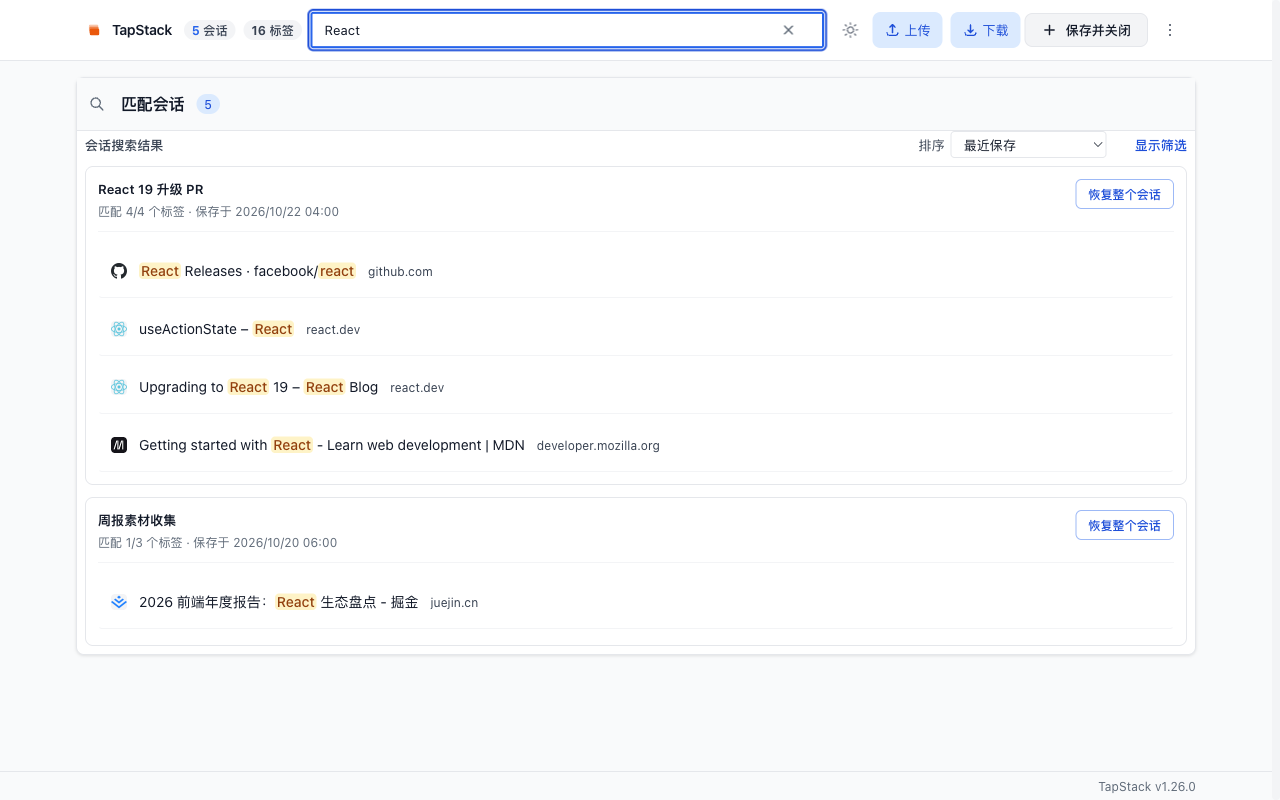
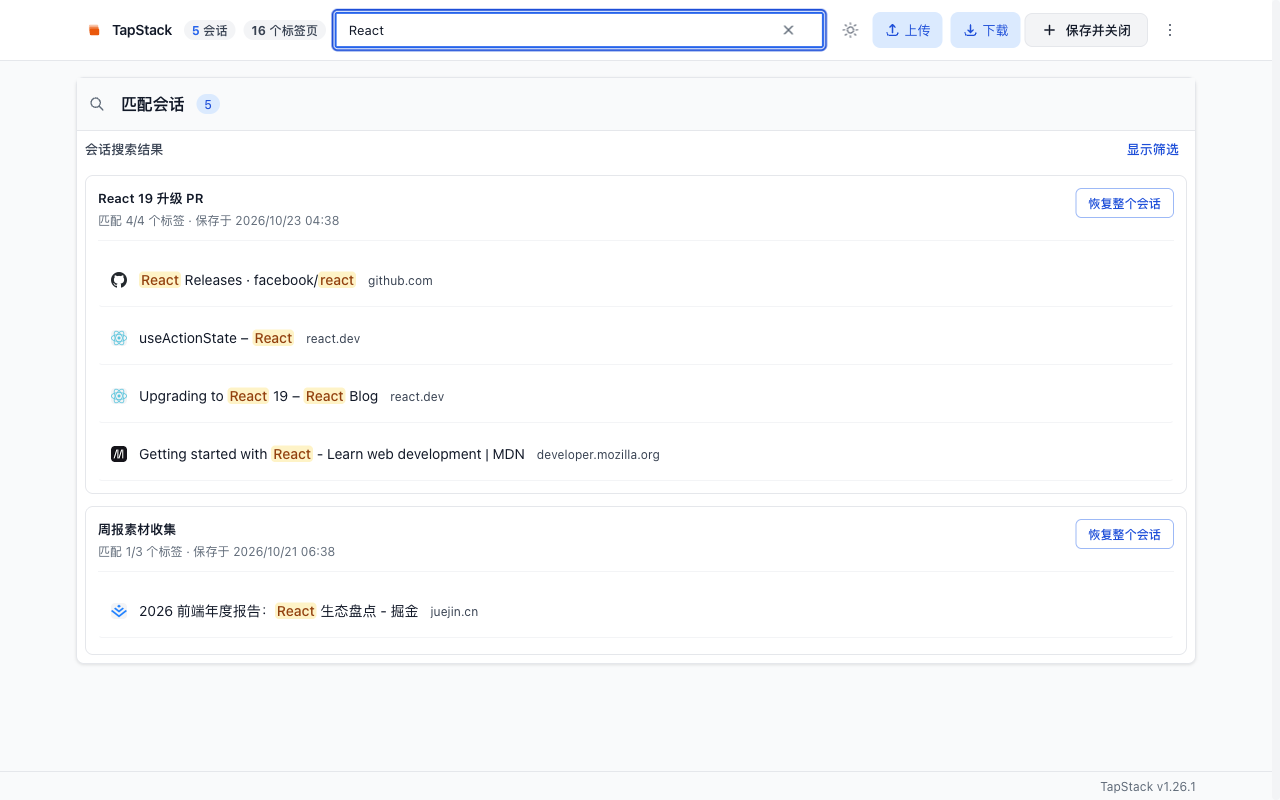
chore(release): 升 1.26.1 —— 第 49～52 轮的修复合版待提审
**版本号动了五处**，其中一处是残留：package.json / manifest.json /
README / .env.example 都是 1.26.0 → 1.26.1；而 .env 里的
VITE_APP_VERSION 停在 **1.24.1**（落后两个版本）—— 一直没人碰，
因为它只在 src/env.d.ts 里声明了类型、**代码里没有任何地方读它**
⇒ 构建产物里不含版本号 ⇒ 它错了也不会被发现。这次顺手对齐。

**商店文案**：线上那份是**手写进后台、描述另一个产品的文案**
（它从未在本仓存在过）—— 实测 20 处问题：宣传了不存在的
「分组管理 / 自动折叠空分组」（空会话是物理删除，不是折叠）、
「数据仅在 Supabase」（自带存储从 1.24.0 起就是第二条通路）、
「本地与云端双重保障」（云端不是备份，是同一份数据的镜像）；
漏说了「保存即关闭 / 自带存储 / 恢复即消费 / 没有数量上限 /
file:// 的真相」。**仓库这份是对的** —— 但商店文案没有 API 通道，
只能人工在后台粘贴 `store-listing-audit.mjs --print-text` 的输出。
本次把待粘文案与台账对齐，并重拍两张商店截图（页脚 v1.26.0 → v1.26.1）。

**台账**：新增 v1.26.1 一节 —— 记下三件「提审前仍然要人做」的事
（解封 Supabase 的 402 配额封禁 / 粘商店文案 / WebDAV 列目录实测），
以及**产物脱节**这件事本身：接手时 dist 是 05:09 构建的、
chrome-extension.zip 是 00:38 打的，而最后一次提交在 16:16 ⇒
两者都落后于当前源码，而且**manifest 版本号完全对得上** ⇒
最省事的检查查不出来。⇒ 发版第一步改成：记 sha256 → 重建 → 逐字对比。
未完成的 WebDAV 待办从 v1.26.0 搬进本节（未完成的事不许躺在
历史版本里装成已完成）。

**门禁**：4515 单测全绿（0 fail）、type-check（src + tests）、
lint（src + tests，--max-warnings 0）、validate-extension、
首屏体积门（182.6KB ≤ 185KB）全绿；产物已重建，
zip 内 manifest 与仓库逐字一致（唯一差异是构建脚本**有意**加的
"type": "module"）。

diff --git a/docs/RELEASE-NOTES.md b/docs/RELEASE-NOTES.md
@@ -8,6 +8,163 @@
 > 长期台账**（含根因、踩坑、修复顺序），不必翻译成英文、不必对齐商店审核口径。
 > 两边都会写「本版改了什么」，但只有本文件会记住「为什么」和「后来怎么验证的」。
 
+## v1.26.1（2026-10-23，**待提审**）
+
+**这版的由来**：第 49～52 轮的四批修复合版提审。这四轮都发生在 **1.26.0 过审上架之后** ⇒
+**线上跑的还是 10-22 那版**，这些修复一个都还没到用户手里。
+
+| 轮次 | 一句话 |
+|---|---|
+| 第 49 轮 | 第一屏那圈画在 Tab 不到的标题上的 2px 蓝框；真机判据自己也会假红 |
+| 第 50 轮 | 「核不到」不再被读成「未登录」；判据层解耦 IO 层；首屏准入闸门进到构建里；对外文案对齐 |
+| 第 51 轮 | 一次云端故障不再等于一次全员登出；覆盖下载的预览与实际落点逐个 id 对账 |
+| 第 52 轮 | 下载路径的核账号也必须有上限 —— 45 秒 ⇒ 5 秒，不打爆 30 秒协议上界 |
+
+### 一、提审前**必须**先解封云端（这条比什么都急）
+
+生产 Supabase 项目（`reccclnaxadbuccsrwmg`）**至今仍被 egress 配额封禁**，
+所有端点（`/rest/v1/*`、`/auth/v1/*`）一律 **HTTP 402**：
+
+```
+{"message":"Service for this project is restricted due to the following violations:
+ exceed_egress_quota. The project owner must upgrade their plan or remove spend
+ caps to restore service."}
+```
+
+**2026-10-22 撞到，2026-10-23 仍未解除** —— 已经跨过一整天的上架窗口
+（1.26.0 就是在这段时间里过审上架的）⇒ **封禁不会自己恢复**。
+
+**为什么它比版本号急**：新用户装上扩展后的第一件事就是注册/登录 ⇒
+登录直接失败 ⇒ 首屏体验是「我注册不了」。审核员不查你的库，所以
+**提审时不会有任何提示**，问题只在用户手里炸。
+
+**探测命令**（一条就够，401 + 空数组 = 正常；402 = 还封着）：
+
+```bash
+set -a; source .env; set +a
+curl -sS --max-time 20 \
+  "https://reccclnaxadbuccsrwmg.supabase.co/rest/v1/tab_groups?select=id&limit=1" \
+  -H "apikey: $VITE_SUPABASE_ANON_KEY"
+```
+
+**解封只能由人做**：仓库里**没有**管理端凭据（`.env` 只有 anon key、
+无 `SUPABASE_DB_URL`），`supabase` CLI 未登录，Supabase MCP 未授权
+⇒ 需要项目所有者到 dashboard 升配或移除 spend cap。
+**在解封之前提审 1.26.1，等于发一个「云端全挂」的版本出去。**
+
+### 二、商店文案**仍然**要人工粘贴（且线上那份有 20 处问题）
+
+`node scripts/store-listing-audit.mjs` 实测线上公开页：**20 处问题**
+—— 3 处「说了假话」（宣传了不存在的「分组管理 / 自动折叠空分组」
+「数据仅在 Supabase」「本地与云端双重保障」）+ 若干处「漏说了」
+（保存即关闭 / 自带存储 / 恢复即消费 / 没有数量上限 / `file://` 的真相）。
+
+⚠ **商店文案没有 API 通道**（CWS v1.1 的 `Item` 只暴露 5 个字段、不含文案；
+v2 只有 `media.upload`）⇒ **只能人工在后台粘贴**
+`node scripts/store-listing-audit.mjs --print-text` 的输出。
+这次改**版本号**不会自动改到线上描述 —— 那是另一条通道，得人走。
+
+### 三、版本号动了五处，其中一处是**残留**
+
+| 文件 | 改前 | 改后 |
+|---|---|---|
+| `package.json` | 1.26.0 | 1.26.1 |
+| `manifest.json` | 1.26.0 | 1.26.1 |
+| `README.md`（当前版本） | 1.26.0 | 1.26.1 |
+| `.env.example`（`VITE_APP_VERSION`） | 1.26.0 | 1.26.1 |
+| `.env`（`VITE_APP_VERSION`，**不入库**） | **1.24.1** | 1.26.1 |
+
+`.env` 那处是**残留**：它比 `package.json` 落后了**两个**版本（1.24.1），
+一直没人碰 —— 因为 `VITE_APP_VERSION` 只在 `src/env.d.ts` 里声明了类型，
+**代码里没有任何地方读它** ⇒ 构建产物里不含版本号 ⇒ 它错了也不会被发现。
+这次顺手对齐，是因为「事实源之间不许漂」比「顺手多改一个文件」重要。
+
+### 四、本轮撞到的一件事：**产物与源码脱节**（旧 dist 与旧 zip 都是过期的）
+
+准备提审时对了一下产物：
+
+- `dist/` 的 mtime 是 **05:09**，而最后一次提交在 **16:16** ⇒ **旧的 dist 不是当前源码的产物**；
+- `chrome-extension.zip` 是 **00:38** 打的 ⇒ **它连 round-50 都还没有**。
+
+⚠ 这正是 `.github/workflows/verify.yml` 那段注释里记过的历史事故
+（「磁盘上的 zip 其实是另一个分支的构建产物」）。本轮它又发生了一次 ——
+**只不过这次是同一个分支，只是落后了几轮**。
+
+**这次为什么能当场发现**：先记下旧 `dist` 的逐文件 sha256，再重建，再逐字对比 ⇒
+`service-worker.js` / `popup/index.html` / `options/index.html` 的哈希都变了
+⇒ 旧产物确认过期。**这个动作本身就该是发版流程的第一步**，
+而不是「记着要 rebuild」。
+
+**重建后确认**：产物 33 个文件，`chrome-extension.zip` 37 个文件 / 0.32MB，
+zip 内 `manifest.json` 与仓库逐字一致（唯一差异是构建脚本**有意**加的
+`"type": "module"` —— 模块化 service worker 需要它，见 `vite.config.ts` 的
+`restore-manifest` 插件）。
+
+### 五、本版的门禁状态
+
+- 本地全量测试：**4515 pass / 1091 suites / 0 fail**（300.8 秒）
+- `type-check`（src + tests）、`lint`（src + tests，`--max-warnings 0`）：✅
+- `validate-extension.mjs`：✅（版本四处一致）
+- 首屏体积：**182.6KB ≤ 185KB** 预算 ✅
+- `pnpm package`：✅
+
+### 六、这一版**没做**的（推迟，不是忘了）
+
+- **同步那一路仍会挨 8 次刷新**（第 51 轮 §八之二已如实记，第 52 轮 §六 再记一次）：
+  要改 `sync-backend/supabaseAdapter.ts` 的同步入口（把探活挪到它之前），
+  而探活住在 `src/utils/supabase/`（popup 首屏禁入组）⇒ 代价是把它挪出首屏 ⇒ **下一轮**的事。
+- **商店文案仍然要人粘**（没有 API 通道，见 §二）。
+- **云端封禁仍然要人解**（见 §一）。
+
+### 六之二、继承下来的未完成项（不许被静默丢掉）
+
+> 这两条待办**从 v1.25.1 一路延续到 v1.26.1**，本轮同样没动它们。
+> 它们住在**本节**（最新一节）而不是历史版本里 —— 未完成的事不许躺在
+> 旧版本里装成已完成。
+
+**待办（提审前逐条勾掉）**
+
+- [ ] **三家 WebDAV 各跑一次列目录实测**（坚果云 / dufs / 第三个服务商）。
+      每家都要记录：Depth:1 PROPFIND 的**状态码**、正文里**有没有
+      `<multistatus>`**、**有没有 `<response>` 块**、**每个块有没有
+      `<href>`**、`<href>` 是**绝对 URL / 绝对路径 / 相对路径**哪一种、
+      目录**真的有分片时**列出来的条目数是否与磁盘上的文件数一致。
+      —— 这一条是**真机**的，脚本与单测都替不了（`scripts/webdav-capability-matrix.mjs`
+      与 `scripts/e2e-webdav-local.mjs` 目前**只**测 Depth:0，不覆盖 Depth:1）。
+      —— **2026-10-20 已跑通 2 家**（rclone serve webdav / dufs 0.47.0，各 19/19），
+      两家给出的 `<href>` 形状不同（绝对 URL vs 绝对路径）而 `hrefToRelPath`
+      对两种都归一正确 —— 这正是「每家都要真机跑」的理由。
+      **坚果云仍未跑**（需要真实账号）。
+        **待办保持未勾选**是刻意的：三家没跑齐就不算完 —— 勾掉等于骗自己。
+      —— **2026-10-23 状态：本轮（v1.26.1）同样没有动这条链路**，待办原样延续。
+- [ ] 上面每家都要再验一次**「目录读不出来」**的形态（临时把目录改名 /
+      断网 / 换成 405），确认界面报的是**可操作的错误**而不是「云端为空」。
+      —— **2026-10-20 已跑通 2 家**（404 与 405 两种形态都判 `listed:false`
+      且**不返回任何条目**）。—— **坚果云这条形态仍未验**。
+
+**已知的、本轮没做但不许被忘记的边界**
+
+- `listDir` 的三条闸（正文里数不出 `<response>` ⇒ 列不出来；根元素没闭合
+  ⇒ 列不出来；`<response>` 缺 `<href>` ⇒ 列不出来）是在**假服务器**上验的。
+  真机上会不会有某家返回「207 但正文形态 unusual」，**目前不知道** ——
+  这就是上面那条实测待办存在的理由。
+  —— 2026-10-20 在 rclone 上验过，且真机**抓出了一个假服务器验不出来的 P0**
+    （见 v1.25.1 台账「四、真机实测抓到的 P0」）。假服务器全绿**根本不能**
+    代表真机可用 —— 假服务器只吐我们自己解析器认得的形状。
+- 把「207 但正文读不懂」从「列出来是空的」改成「列不出来」，
+  **代价**是：若某家服务端的 207 正文形态确实特殊（且我们读不懂），
+  用户的同步会**中止并报错**，而不是像以前那样「静默当空库」。
+  这是**故意的**（fail-closed 优于静默覆盖），但需要真机确认三家都不踩到。
+- **跨账号隔离（见 v1.26.0 §三）有一个窄窗口**：本机的「会话归属记录」存在
+  `chrome.storage.local`，而**会话本体在 IndexedDB**。若 `chrome.storage.local`
+  被单独清掉（会话还在、归属记录没了），且这台机器**从没有过**登录缓存
+  （= 从没登录过），本机会话会被归到当前账号。正常路径下登录/退出都会写
+  归属记录，所以这个窗口极窄 —— 但它**不是零**，写在这儿免得下一轮重新发现。
+  换句话说：**这版把「换账号泄露」的概率从「必然」降到了「极窄」，
+  不是降到了零**。
+
+---
+
 ## v1.26.0（2026-10-22 完稿，**2026-10-23 已过审上架**）
 
 **提审与上架状态（2026-10-23）**：`1.26.0` 提交审核回包 `status: ["OK"]`
@@ -265,48 +422,11 @@ egress 配额**（配额超限正是封禁的原因）⇒ 不推进 1/2/5 分钟
    另有一个探针从 2026-10-18 起就一直在报假警。现在都改成
    **先断言目标状态存在再拍/再判**；闸门改了必须回来改断言。
 
-### 八、待办（从 v1.25.1 延续，本轮没动，但不许被忘记）
+### 八、待办（已并入 v1.26.1 一节）
 
-**待办（合版前必须逐条勾掉）**
-
-- [ ] **三家 WebDAV 各跑一次列目录实测**（坚果云 / dufs / 第三个服务商）。
-      每家都要记录：Depth:1 PROPFIND 的**状态码**、正文里**有没有
-      `<multistatus>`**、**有没有 `<response>` 块**、**每个块有没有
-      `<href>`**、`<href>` 是**绝对 URL / 绝对路径 / 相对路径**哪一种、
-      目录**真的有分片时**列出来的条目数是否与磁盘上的文件数一致。
-      —— 这一条是**真机**的，脚本与单测都替不了（`scripts/webdav-capability-matrix.mjs`
-      与 `scripts/e2e-webdav-local.mjs` 目前**只**测 Depth:0，不覆盖 Depth:1）。
-      —— **2026-10-20 已跑通 2 家**（rclone serve webdav / dufs 0.47.0，各 19/19），
-      两家给出的 `<href>` 形状不同（绝对 URL vs 绝对路径）而 `hrefToRelPath`
-      对两种都归一正确 —— 这正是「每家都要真机跑」的理由。
-      **坚果云仍未跑**（需要真实账号）。
-        **待办保持未勾选**是刻意的：三家没跑齐就不算完 —— 勾掉等于骗自己。
-      —— **2026-10-22 状态：本轮（v1.26.0）没有动这条链路**，待办原样延续。
-- [ ] 上面每家都要再验一次**「目录读不出来」**的形态（临时把目录改名 /
-      断网 / 换成 405），确认界面报的是**可操作的错误**而不是「云端为空」。
-      —— **2026-10-20 已跑通 2 家**（404 与 405 两种形态都判 `listed:false`
-      且**不返回任何条目**）。—— **坚果云这条形态仍未验**。
-
-**已知的、本轮没做但不许被忘记的边界**
-
-- `listDir` 的三条闸（正文里数不出 `<response>` ⇒ 列不出来；根元素没闭合
-  ⇒ 列不出来；`<response>` 缺 `<href>` ⇒ 列不出来）是在**假服务器**上验的。
-  真机上会不会有某家返回「207 但正文形态 unusual」，**目前不知道** ——
-  这就是上面那条实测待办存在的理由。
-  —— 2026-10-20 在 rclone 上验过，且真机**抓出了一个假服务器验不出来的 P0**
-    （见 v1.25.1 台账「四、真机实测抓到的 P0」）。假服务器全绿**根本不能**
-    代表真机可用 —— 假服务器只吐我们自己解析器认得的形状。
-- 把「207 但正文读不懂」从「列出来是空的」改成「列不出来」，
-  **代价**是：若某家服务端的 207 正文形态确实特殊（且我们读不懂），
-  用户的同步会**中止并报错**，而不是像以前那样「静默当空库」。
-  这是**故意的**（fail-closed 优于静默覆盖），但需要真机确认三家都不踩到。
-- **跨账号隔离（§三）有一个窄窗口**：本机的「会话归属记录」存在
-  `chrome.storage.local`，而**会话本体在 IndexedDB**。若 `chrome.storage.local`
-  被单独清掉（会话还在、归属记录没了），且这台机器**从没有过**登录缓存
-  （= 从没登录过），本机会话会被归到当前账号。正常路径下登录/退出都会写
-  归属记录，所以这个窗口极窄 —— 但它**不是零**，写在这儿免得下一轮重新发现。
-  换句话说：**这版把「换账号泄露」的概率从「必然」降到了「极窄」，
-  不是降到了零**。
+> 这一节里的两条未完成项（**三家 WebDAV 列目录实测**、**目录读不出来的形态**）
+> 仍然**未完成**，现已挂到 **v1.26.1**（最新一节）——
+> 未完成的事不许躺在历史版本里装成已完成。
 
 ### 八之二、「撤销」按钮做出来了，但用户**够不着**（2026-10-22 追加）
 

diff --git a/CHROMEWEBSTORE.md b/CHROMEWEBSTORE.md
@@ -6,12 +6,26 @@
 > （2026-10-23 抓公开页实证：页面里已**不再出现** 1.25.1）。
 > 线上已发布 = **`1.26.0`**。
 >
+> **2026-10-23 当前状态（提审前）**：**`1.26.1` 已备好待提审**（仓库版本 =
+> `1.26.1`，产物已重建）。本版带上第 49～52 轮的修复：弹窗第一屏的焦点环、
+> 「核不到」不再被读成「未登录」、**一次云端故障不再等于一次全员登出**、
+> 下载前的账号核验有了上限（45 秒 ⇒ 5 秒）。
+> ⚠ **提审前必须先解封云端**：生产 Supabase 项目仍被 egress 配额封禁
+> （HTTP 402，2026-10-22 起未解）⇒ 现在提审 = 让新用户装上「注册不了」的版本。
+> 探测命令与解封方式见 `docs/RELEASE-NOTES.md` 的 v1.26.1 一节。
+> ⚠ 公开页显示的版本才算数（上面那句 `1.26.0` 是 2026-10-23 抓页面的实证）。
+>
 > ⚠ **商店文案没有跟着版本走**：公开页上的描述仍是那一段手写进后台的旧文案
 > （它从未在本仓存在过，描述的甚至是另一个产品）。版本号变了、文案没变
 > ⇒ 判据 `missing-consume-undo`（1.26.0 起必须说明「恢复 / 点开之后有撤销」）
 > 在线上**不成立**，已如实记进 `tests/fixtures/store-listing-live-baseline.json`。
 > 修法只有一条：把 `node scripts/store-listing-audit.mjs --print-text` 的输出
 > 粘进后台的 Short / Detailed Description（商店文案**没有 API 通道**）。
+> **2026-10-23 实测：线上那份文案共 20 处问题** —— 3 处「说了假话」
+> （宣传了不存在的「分组管理 / 自动折叠空分组」「数据仅在 Supabase」
+> 「本地与云端双重保障」）+ 若干处「漏说了」（保存即关闭 / 自带存储 /
+> 恢复即消费 / 没有数量上限 / file:// 的真相…）。
+> `node scripts/store-listing-audit.mjs` 会逐条列出来，每条都带代码行号依据。
 >
 > ⚠ 此前写的「线上仍是 1.24.1、1.25.1 在审核队列中」是 **2026-10-21** 的事实，
 > 已在 2026-10-22/23 过期（1.25.1 已过审）。**这类「发布状态」只能靠抓公开页确认**，
@@ -126,8 +140,8 @@ Productivity
 | Asset | Dimensions | Status | Filename |
 |-------|-----------|--------|----------|
 | Store Icon [REQUIRED] | 128×128 PNG | ✅ Ready | icons/icon128.png |
-| Screenshot 1 [REQUIRED] | 1280×800 | ✅ Ready | store-assets/screenshot-1-main.png（2026-10-22 重拍：会话卡带 favicon，操作区 5 个按钮，顶栏「排序」下拉已上线） |
-| Screenshot 2 [RECOMMENDED] | 1280×800 | ✅ Ready | store-assets/screenshot-2-search.png（2026-10-22 重拍，页脚显示 TapStack v1.26.0） |
+| Screenshot 1 [REQUIRED] | 1280×800 | ✅ Ready | store-assets/screenshot-1-main.png（2026-10-23 重拍：会话卡带 favicon，操作区 5 个按钮，顶栏「排序」下拉已上线） |
+| Screenshot 2 [RECOMMENDED] | 1280×800 | ✅ Ready | store-assets/screenshot-2-search.png（2026-10-23 重拍，页脚显示 TapStack v1.26.1） |
 | Small Promo Tile [RECOMMENDED] | 440×280 | ✅ Ready | store-assets/promo-tile-440x280.png（2026-10-20 新建；源文件 store-assets/promo-tile-440x280.svg，PNG 无 alpha 通道，符合 CWS 要求） |
 
 <!-- 宣传图与图标**必须讲同一个故事** —— 商店里两张图并排出现。
@@ -398,9 +412,24 @@ https://github.com/hibernate-pano/chrome-plugin-one-tab
 
 | Version | Date | Changes | Status |
 |---------|------|---------|--------|
+| 1.26.1 | 2026-10-23 | **云端临时不可用时，你不会被误登出；弹窗第一屏更快、更准，少了一圈莫名其妙的蓝框**。下面是用户能感知到的变化。 | **待提审**（产物已重建；⚠ 提审前需先解封云端，见文件头） |
 | 1.26.0 | 2026-10-22 | **一次由五位专家各自独立挑刺后的收口：给最高频的那两个「不可逆」动作配上一条退路，堵上一处**跨账号的数据串号**，并把若干处「界面在说谎」改成说实话**。下面是用户能感知到的变化。 | **已上架**（2026-10-23 过审并从公开页确认 `Version 1.26.0`；商店**文案**仍需人工粘贴，见文件头） |
 | 1.25.1 | 2026-10-21 | **设置页的三个真实缺口 + 同步的数据安全收口 + 五处「文档说错、代码做的是另一回事」**。下面是用户能感知到的变化。 | **已上架**（2026-10-21 提交审核；2026-10-20 公开页显示 `Version 1.25.1 / Updated October 20, 2026` ⇒ 已过审并发布为线上当前版本） |
 | 1.25.0 | 2026-10-19 | **一次覆盖四个维度的深度体检收口：功能与数据安全、信息架构、视觉与主题、文案与承诺**。下面是用户能感知到的变化。 | **未提审（内容已并入 1.25.1 一并提交）** |
+
+**1.26.1 的详细清单**（对应上表那一行）：
+
+**① 云端临时不可用时，你不会再被误登出** —— 此前只要云端出了状况（配额被限、网络抖动、服务端维护），扩展就会把它当成「你的凭证失效」⇒ **把你登出**，会话列表整个变成「登录 TapStack 云端」，而**你本机的会话一个都没丢**。现在这种情况会如实告诉你：「云端暂时不可用，本轮没有上传成功：你的本地会话一个都没有丢，这不是你的操作或数据的问题」，你的登录状态保持不变，云端恢复后会自动补传。
+
+**② 「暂时核不到你的账号」不再被说成「未登录」** —— 扩展判不出账号状态时，此前一律显示「未登录」，把你引去重新登录一遍（而你的账号其实没问题，登录也不会成功）。现在这两种情况是分开说的：「核不到」会告诉你这是服务端的状况，「确实没登录」才会请你登录。
+
+**③ 下载前的那一步核验不再让人干等** —— 此前下载云端内容前要核对一次账号，最坏情况下要等 45 秒，比整个同步流程的 30 秒上限还长 ⇒ 界面就那么卡着。现在最多等 5 秒；核不到就如实说核不到，不会假装在忙。
+
+**④ 弹窗第一屏不再有那圈莫名其妙的蓝框** —— 用键盘 Tab 进弹窗时，标题上会套着一圈 2px 的蓝框，而那个标题是键盘用户**根本 Tab 不到**的（焦点环画在了够不着的地方）。现在这圈框画在该画的地方。
+
+**⑤ 第一屏看到的状态更准了** —— 弹窗刚打开的那一两秒，此前可能先把「未登录」亮出来（明明已经登录着）。现在第一屏显示的是真实状态。
+
+---
 
 **1.26.0 的详细清单**（对应上表那一行）：
 
@@ -437,8 +466,6 @@ https://github.com/hibernate-pano/chrome-plugin-one-tab
 **⑯ 三处「文档在教一个不成立的预期」**，这一版一并订正：① 此前说「两台设备同时编辑同一个会话时**以最后保存的一方为准**」—— 实际胜负由**操作印记**（序号 + 设备编号）决定，而两台设备的序号来自各自独立的计数器，**先保存的那台也可能赢**；赢的一方整组覆盖另一方，败方新增的标签会丢，且没有任何提示。② 此前说「导入的会话也**按内容命名**（和保存时同一套规则）」—— 实际是**导回本扩展导出的 JSON 备份时保留文件里的会话名**（一个字都不改），只有 **OneTab 文本**导入才按域名命名（那个格式本身不带会话名）；**OneTab 导入的会话也不带锁定状态**，想防误删需要重新锁定一次。③ 此前删除确认框只说「其他设备将同步删除」，而**一台设备删除、另一台在离线期间同时改了它时，删除可能被撤销**（胜负同样由印记决定）—— 商店页与 README 现在把这一档如实写出来，并告诉你：删完请等一轮同步完成，再确认另一台设备上的那条也确实没了。同步**不会**提示「刚才两边撞车了」，界面上看不到冲突提示。
 
 **⑰ 打开会话管理器更快了** —— 此前每次打开，扩展都要顺带把一整套云端组件（约 75KB）下载下来，而你点开它只是想看**本机的会话列表**：这跟你要干的事毫无关系，却每次都要付一遍。现在这一步挪到后台去了，打开时不再有它。
-
----
 
 **1.25.1 的详细清单**（对应上表那一行）：
 

diff --git a/README.md b/README.md
@@ -1,6 +1,6 @@
 # TapStack
 
-当前版本：`1.26.0`
+当前版本：`1.26.1`
 
 最近一次架构重写：`v1.22.0` 无墓碑重写——
 
